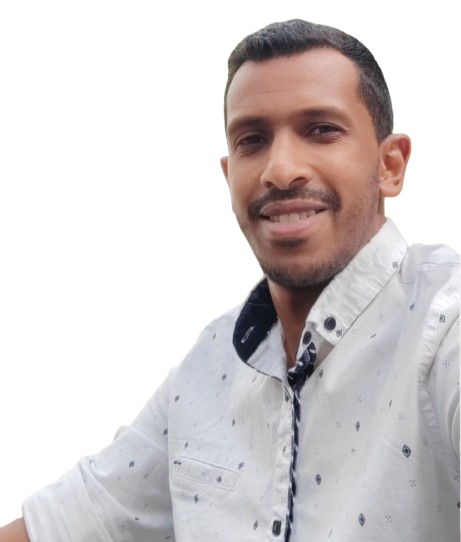
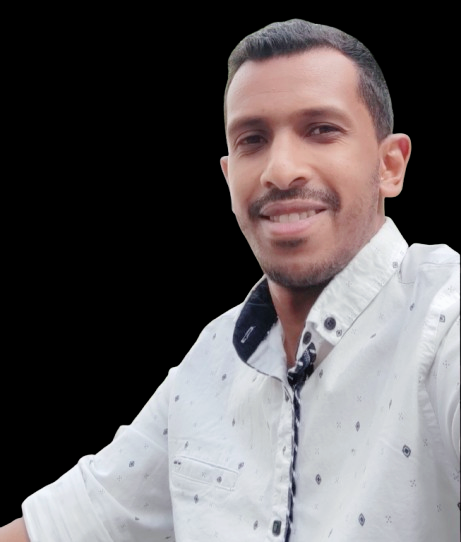
ADD: box-shadow to proile-image

diff --git a/css/style.css b/css/style.css
@@ -116,16 +116,16 @@ header {
             }
 
             a {
-                color: var(--white);
+                color: var(--brown);
                 margin-top: 10px;
                 font-size: 15px;
                 text-decoration: none;
                 width: fit-content;
-                border-bottom: 1px solid var(--brown);
+                border-bottom: 1px solid var(--gray);
 
                 &:hover {
-                color: var(--brown);
-                border-bottom: 1px solid var(--white);
+                color: var(--white);
+                border-bottom: 1px solid var(--brown);
 
                 }
             }
@@ -148,14 +148,17 @@ header {
     }
 }
 
+
+
 .profile_image img {
     filter: grayscale(100%);
-    transition: .3s linear;
+    transition: .2s linear;
+    background-color: #181a1c;
 }
 
 .profile_image img:hover {
     filter: grayscale(0%);
-
+    box-shadow: rgba(99, 99, 99, 0.2) 0px 2px 8px 0px;
 }
 
 #skills {

diff --git a/index.html b/index.html
@@ -45,7 +45,7 @@
                     <a href="./assets/CV.pdf" download>Télécharger mon CV</a>
                 </div>
                 <div class="profile_image">
-                   <img src="./assets/profile-image2.png" alt="Profile Image">
+                   <img src="./assets/profile-image.png" alt="Profile Image">
                 </div>
             </div>
         </section>
